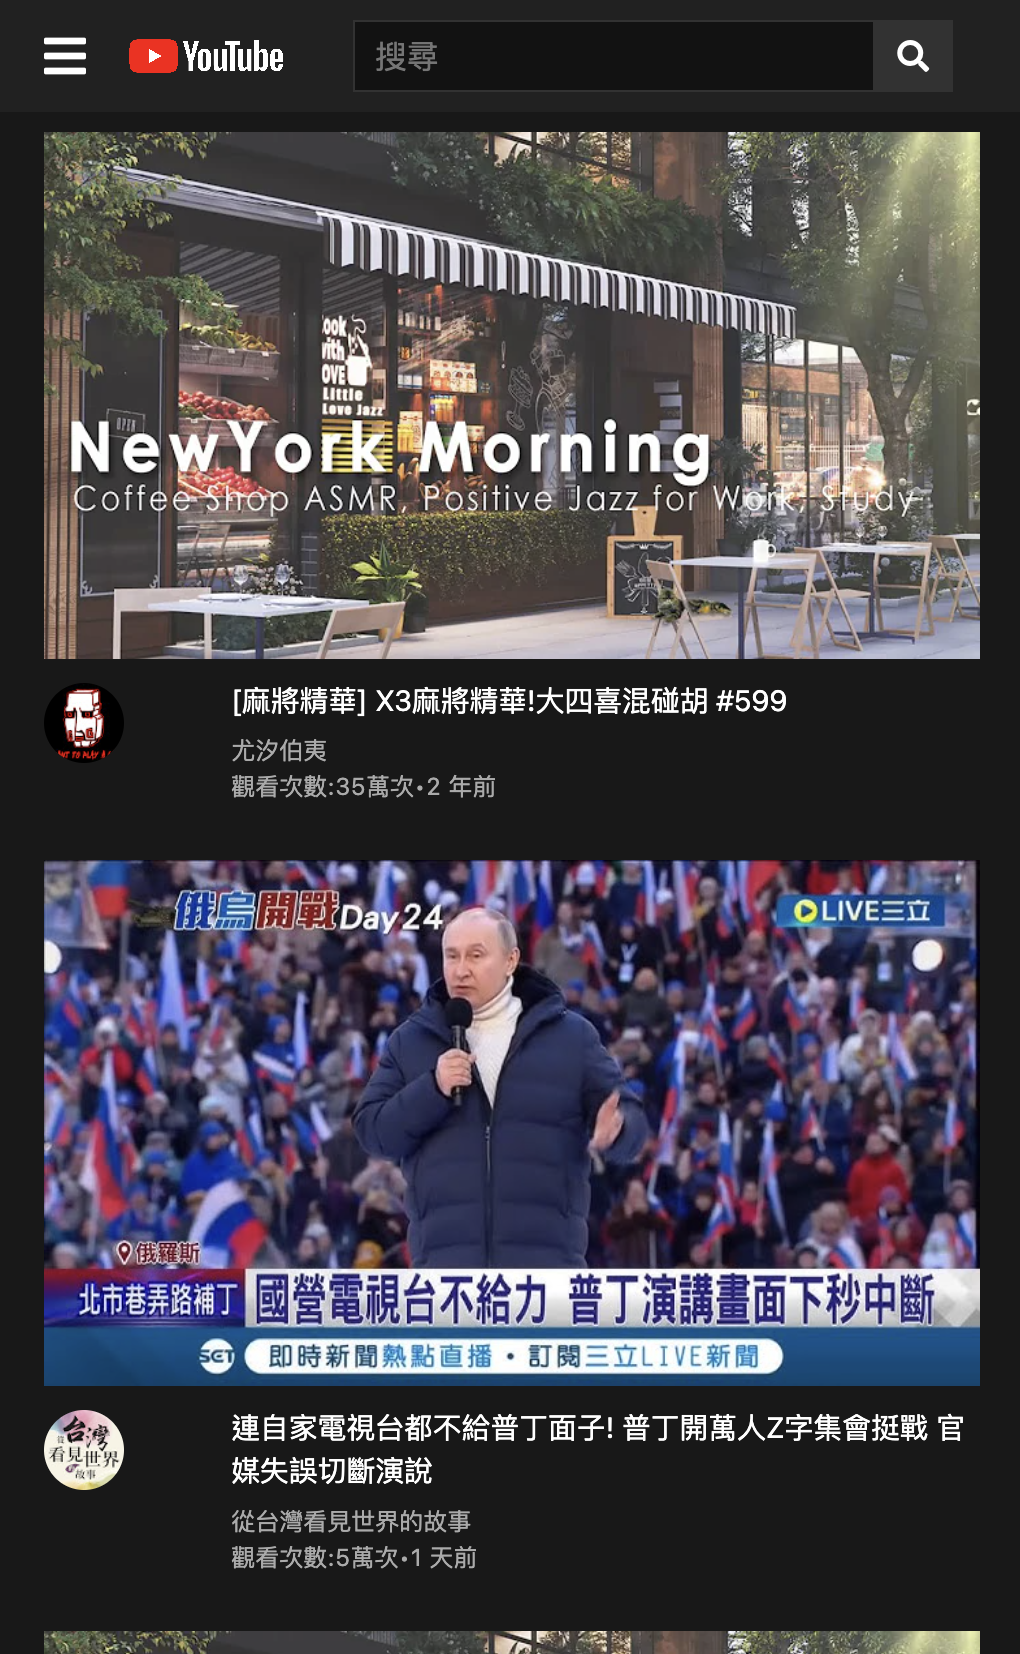
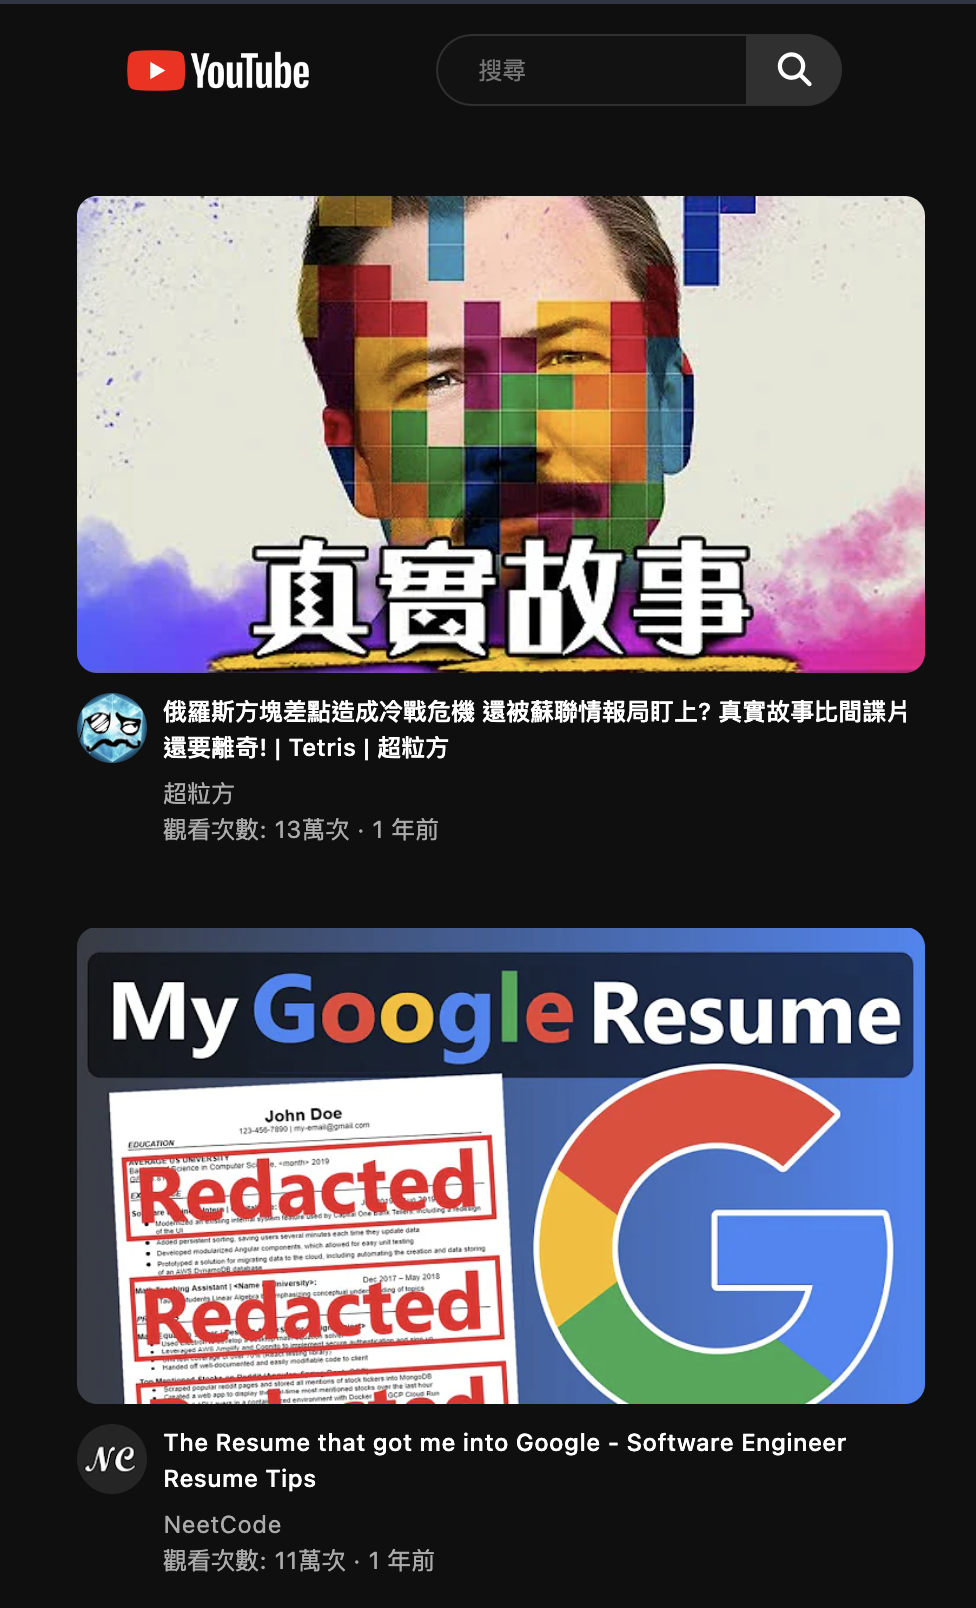
5/15

diff --git a/RWD/YT-practice/index.html b/RWD/YT-practice/index.html
@@ -62,27 +62,255 @@
                     <div class="row">
                         <div class="col col-sm-6 col-lg-4">
                             <div class="yt-vd">
-                                <div class="vd-img"></div>
+                                <div 
+                                    class="vd-img"
+                                    style="background-image: url('https://i.ytimg.com/vi/O-e7ve3Uidg/hqdefault.jpg?sqp=-oaymwEcCOADEI4CSFXyq4qpAw4IARUAAIhCGAFwAcABBg==&rs=AOn4CLC7CHBN2wuZvv0zhHIrSM2j0qNPgQ');"
+                                ></div>
                                 <div class="info">
                                     <div class="desc">
                                         <div class="avatar">
                                             <img src="https://yt3.ggpht.com/ytc/AGIKgqPlQF3RK-0DbvuttXxPbKKL6XR5QFXDcCMKseuIGg=s68-c-k-c0x00ffffff-no-rj" alt="avatar">
                                         </div>
-                                        <div class="desc-txt">
-                                            俄羅斯方塊差點造成冷戰危機 還被蘇聯情報局盯上? 真實故事比間諜片還要離奇!  | Tetris | 超粒方
+                                        <div class="txt-group">
+                                            <div class="desc-txt">
+                                                俄羅斯方塊差點造成冷戰危機 還被蘇聯情報局盯上? 真實故事比間諜片還要離奇!  | Tetris | 超粒方
+                                            </div>
+                                            <div class="bot-desc">
+                                                <div class="chan">
+                                                    超粒方
+                                                </div>
+                                                <div class="watch">
+                                                    觀看次數: 13萬次 · 1 年前
+                                                </div>
+                                            </div>
                                         </div>
                                     </div>
-                                    <div class="bot-desc">
-                                        <div class="chan"></div>
-                                        <div class="watch"></div>
+                                </div>
+                            </div>                      
+                        </div>
+                        <div class="col col-sm-6 col-lg-4">
+                            <div class="yt-vd">
+                                <div 
+                                    class="vd-img"
+                                    style="background-image: url('https://i.ytimg.com/vi/bwgjvzMSlMQ/hq720.jpg?sqp=-oaymwEcCNAFEJQDSFXyq4qpAw4IARUAAIhCGAFwAcABBg==&rs=AOn4CLDMB33ZOLlnb-QgIv0lu8IGghTR6g');"
+                                ></div>
+                                <div class="info">
+                                    <div class="desc">
+                                        <div class="avatar">
+                                            <img src="https://yt3.ggpht.com/FqiGBOsNpeWbNw20ULboW0jy88JdpqFO9a-YRJ0C2oc4lZ8uoHYJ38PWSkrjdC_zQgNW9pGU=s68-c-k-c0x00ffffff-no-rj" alt="avatar">
+                                        </div>
+                                        <div class="txt-group">
+                                            <div class="desc-txt">
+                                                The Resume that got me into Google - Software Engineer Resume Tips</div>
+                                            <div class="bot-desc">
+                                                <div class="chan">
+                                                    NeetCode
+                                                </div>
+                                                <div class="watch">
+                                                    觀看次數: 11萬次 · 1 年前
+                                                </div>
+                                            </div>
+                                        </div>
                                     </div>
                                 </div>
-                            </div>
-                           
+                            </div> 
                         </div>
-                        <div class="col col-sm-6 col-lg-4"></div>
-                        <div class="col col-sm-6 col-lg-4"></div>
-                        <div class="col col-sm-6 col-lg-4"></div>
+                        <div class="col col-sm-6 col-lg-4">
+                            <div class="yt-vd">
+                                <div 
+                                    class="vd-img"
+                                    style="background-image: url('https://i.ytimg.com/vi/uTuuz__8gUM/hqdefault.jpg?sqp=-oaymwEcCOADEI4CSFXyq4qpAw4IARUAAIhCGAFwAcABBg==&rs=AOn4CLAJqKJUqthPzKr9QPFIRCQC6cEgZw');"
+                                ></div>
+                                <div class="info">
+                                    <div class="desc">
+                                        <div class="avatar">
+                                            <img src="https://yt3.ggpht.com/aMEvgk3HpePuKHEb72ZLb0RHnq4oZc9JoLZP2SiIoC8VJmGGSvChE7GtNRY3twnlhQ1nMMsX_g=s68-c-k-c0x00ffffff-no-rj" alt="avatar">
+                                        </div>
+                                        <div class="txt-group">
+                                            <div class="desc-txt">
+                                                [Playlist] 오롯이 혼자인 방 안에서, 그리고 재즈 | Work & Study Jazz | Relaxing Background Music
+                                            </div>
+                                            <div class="bot-desc">
+                                                <div class="chan">
+                                                    WRG 우리가 듣고 싶어서 연주한 playlist
+                                                </div>
+                                                <div class="watch">
+                                                    觀看次數: 16萬次·1 個月前
+                                                </div>
+                                            </div>
+                                        </div>
+                                    </div>
+                                </div>
+                            </div> 
+                        </div>
+                        <div class="col col-sm-6 col-lg-4">
+                            <div class="yt-vd">
+                                <div
+                                    class="vd-img"
+                                    style="background-image: url('https://i.ytimg.com/vi/PXMJ6FS7llk/hq720.jpg?sqp=-oaymwEcCNAFEJQDSFXyq4qpAw4IARUAAIhCGAFwAcABBg==&rs=AOn4CLA_dVFi-zMvuDL-JY3Sh1EyJpmdCw');"
+                                ></div>
+                                <div class="info">
+                                    <div class="desc">
+                                        <div class="avatar">
+                                            <img src="https://yt3.ggpht.com/ytc/AGIKgqMl9TL4OpwS8Zc5jHrNnfO01f_Wbovye9mQzfp36Q=s68-c-k-c0x00ffffff-no-rj" alt="avatar">
+                                        </div>
+                                        <div class="txt-group">
+                                            <div class="desc-txt">
+                                                Automate with Python - Full Course for Beginners
+                                            </div>
+                                            <div class="bot-desc">
+                                                <div class="chan">
+                                                    freeCodeCamp.org
+                                                </div>
+                                                <div class="watch">
+                                                    觀看次數: 87萬次·10 個月前
+                                                </div>
+                                            </div>
+                                        </div>
+                                    </div>
+                                </div>
+                            </div> 
+                        </div>
+                        <div class="col col-sm-6 col-lg-4">
+                            <div class="yt-vd">
+                                <div 
+                                    class="vd-img"
+                                    style="background-image: url('https://i.ytimg.com/vi/uTuuz__8gUM/hqdefault.jpg?sqp=-oaymwEcCOADEI4CSFXyq4qpAw4IARUAAIhCGAFwAcABBg==&rs=AOn4CLAJqKJUqthPzKr9QPFIRCQC6cEgZw');"
+                                ></div>
+                                <div class="info">
+                                    <div class="desc">
+                                        <div class="avatar">
+                                            <img src="https://yt3.ggpht.com/aMEvgk3HpePuKHEb72ZLb0RHnq4oZc9JoLZP2SiIoC8VJmGGSvChE7GtNRY3twnlhQ1nMMsX_g=s68-c-k-c0x00ffffff-no-rj" alt="avatar">
+                                        </div>
+                                        <div class="txt-group">
+                                            <div class="desc-txt">
+                                                [Playlist] 오롯이 혼자인 방 안에서, 그리고 재즈 | Work & Study Jazz | Relaxing Background Music
+                                            </div>
+                                            <div class="bot-desc">
+                                                <div class="chan">
+                                                    WRG 우리가 듣고 싶어서 연주한 playlist
+                                                </div>
+                                                <div class="watch">
+                                                    觀看次數: 16萬次·1 個月前
+                                                </div>
+                                            </div>
+                                        </div>
+                                    </div>
+                                </div>
+                            </div> 
+                        </div>
+                        <div class="col col-sm-6 col-lg-4">
+                            <div class="yt-vd">
+                                <div 
+                                    class="vd-img"
+                                    style="background-image: url('https://i.ytimg.com/vi/O-e7ve3Uidg/hqdefault.jpg?sqp=-oaymwEcCOADEI4CSFXyq4qpAw4IARUAAIhCGAFwAcABBg==&rs=AOn4CLC7CHBN2wuZvv0zhHIrSM2j0qNPgQ');"
+                                ></div>
+                                <div class="info">
+                                    <div class="desc">
+                                        <div class="avatar">
+                                            <img src="https://yt3.ggpht.com/ytc/AGIKgqPlQF3RK-0DbvuttXxPbKKL6XR5QFXDcCMKseuIGg=s68-c-k-c0x00ffffff-no-rj" alt="avatar">
+                                        </div>
+                                        <div class="txt-group">
+                                            <div class="desc-txt">
+                                                俄羅斯方塊差點造成冷戰危機 還被蘇聯情報局盯上? 真實故事比間諜片還要離奇!  | Tetris | 超粒方
+                                            </div>
+                                            <div class="bot-desc">
+                                                <div class="chan">
+                                                    超粒方
+                                                </div>
+                                                <div class="watch">
+                                                    觀看次數: 13萬次 · 1 年前
+                                                </div>
+                                            </div>
+                                        </div>
+                                    </div>
+                                </div>
+                            </div>                      
+                        </div>
+                        <div class="col col-sm-6 col-lg-4">
+                            <div class="yt-vd">
+                                <div 
+                                    class="vd-img"
+                                    style="background-image: url('https://i.ytimg.com/vi/uTuuz__8gUM/hqdefault.jpg?sqp=-oaymwEcCOADEI4CSFXyq4qpAw4IARUAAIhCGAFwAcABBg==&rs=AOn4CLAJqKJUqthPzKr9QPFIRCQC6cEgZw');"
+                                ></div>
+                                <div class="info">
+                                    <div class="desc">
+                                        <div class="avatar">
+                                            <img src="https://yt3.ggpht.com/aMEvgk3HpePuKHEb72ZLb0RHnq4oZc9JoLZP2SiIoC8VJmGGSvChE7GtNRY3twnlhQ1nMMsX_g=s68-c-k-c0x00ffffff-no-rj" alt="avatar">
+                                        </div>
+                                        <div class="txt-group">
+                                            <div class="desc-txt">
+                                                [Playlist] 오롯이 혼자인 방 안에서, 그리고 재즈 | Work & Study Jazz | Relaxing Background Music
+                                            </div>
+                                            <div class="bot-desc">
+                                                <div class="chan">
+                                                    WRG 우리가 듣고 싶어서 연주한 playlist
+                                                </div>
+                                                <div class="watch">
+                                                    觀看次數: 16萬次·1 個月前
+                                                </div>
+                                            </div>
+                                        </div>
+                                    </div>
+                                </div>
+                            </div> 
+                        </div>
+                        <div class="col col-sm-6 col-lg-4">
+                            <div class="yt-vd">
+                                <div
+                                    class="vd-img"
+                                    style="background-image: url('https://i.ytimg.com/vi/PXMJ6FS7llk/hq720.jpg?sqp=-oaymwEcCNAFEJQDSFXyq4qpAw4IARUAAIhCGAFwAcABBg==&rs=AOn4CLA_dVFi-zMvuDL-JY3Sh1EyJpmdCw');"
+                                ></div>
+                                <div class="info">
+                                    <div class="desc">
+                                        <div class="avatar">
+                                            <img src="https://yt3.ggpht.com/ytc/AGIKgqMl9TL4OpwS8Zc5jHrNnfO01f_Wbovye9mQzfp36Q=s68-c-k-c0x00ffffff-no-rj" alt="avatar">
+                                        </div>
+                                        <div class="txt-group">
+                                            <div class="desc-txt">
+                                                Automate with Python - Full Course for Beginners
+                                            </div>
+                                            <div class="bot-desc">
+                                                <div class="chan">
+                                                    freeCodeCamp.org
+                                                </div>
+                                                <div class="watch">
+                                                    觀看次數: 87萬次·10 個月前
+                                                </div>
+                                            </div>
+                                        </div>
+                                    </div>
+                                </div>
+                            </div> 
+                        </div>
+                        <div class="col col-sm-6 col-lg-4">
+                            <div class="yt-vd">
+                                <div 
+                                    class="vd-img"
+                                    style="background-image: url('https://i.ytimg.com/vi/uTuuz__8gUM/hqdefault.jpg?sqp=-oaymwEcCOADEI4CSFXyq4qpAw4IARUAAIhCGAFwAcABBg==&rs=AOn4CLAJqKJUqthPzKr9QPFIRCQC6cEgZw');"
+                                ></div>
+                                <div class="info">
+                                    <div class="desc">
+                                        <div class="avatar">
+                                            <img src="https://yt3.ggpht.com/aMEvgk3HpePuKHEb72ZLb0RHnq4oZc9JoLZP2SiIoC8VJmGGSvChE7GtNRY3twnlhQ1nMMsX_g=s68-c-k-c0x00ffffff-no-rj" alt="avatar">
+                                        </div>
+                                        <div class="txt-group">
+                                            <div class="desc-txt">
+                                                [Playlist] 오롯이 혼자인 방 안에서, 그리고 재즈 | Work & Study Jazz | Relaxing Background Music
+                                            </div>
+                                            <div class="bot-desc">
+                                                <div class="chan">
+                                                    WRG 우리가 듣고 싶어서 연주한 playlist
+                                                </div>
+                                                <div class="watch">
+                                                    觀看次數: 16萬次·1 個月前
+                                                </div>
+                                            </div>
+                                        </div>
+                                    </div>
+                                </div>
+                            </div> 
+                        </div>
                     </div>
                 </div>
             </div>

diff --git a/RWD/YT-practice/style.css b/RWD/YT-practice/style.css
@@ -15,6 +15,7 @@ body
     display: flex;
     flex-direction: column;
     background-color: #0f0f0f;
+    overflow: hidden;
 }
 
 .top-bar
@@ -108,6 +109,7 @@ body
 .main
 {
     width: 100%;
+    height: 92%;
     flex: 1;
     display: flex;
 }
@@ -150,6 +152,7 @@ body
     height: 100%;
     flex: 1;
     overflow-y: scroll;
+    background-color: #0f0f0f;
 }
 .content > .container-fluid
 {
@@ -173,7 +176,14 @@ body
     justify-content: center;
 
     width: 90%;
-    max-width: 350px;
+
+    /* min-width, max-width 
+        => can be used to do RWD
+        => to avoid continuing shrink or largen
+    */
+    /* max-width: 350px;  */
+
+    padding: 20px 0;
 }
 .info
 {
@@ -187,22 +197,24 @@ body
 
 /*
 比例照片方法:
-padding-bottom (background or image都可以)
+1. padding-bottom (background or image都可以)
+2. aspect-ratio => mobile sometimes may occur error
 */
 .vd-img
 {
-    background-image: url('https://i.ytimg.com/vi/O-e7ve3Uidg/hqdefault.jpg?sqp=-oaymwEcCOADEI4CSFXyq4qpAw4IARUAAIhCGAFwAcABBg==&rs=AOn4CLC7CHBN2wuZvv0zhHIrSM2j0qNPgQ');
+    /* background-image: url(''); */ 
     background-repeat: no-repeat;
     background-size: contain;
     background-position: center;
     
     width: 100%;
     min-width: 240px; 
+    height: 0;
+
     /*padding 是根據 寬度決定*/
     padding-bottom: 56.25%; /*16:9 = 100 : 56.25 */
 
     border-radius: 10px;
-
 }
 .desc
 {
@@ -212,7 +224,7 @@ padding-bottom (background or image都可以)
 }
 .avatar
 {
-    width: 70px;
+    max-width: 35px;
     height: 100%;
 }
 .avatar > img
@@ -220,26 +232,35 @@ padding-bottom (background or image都可以)
     border-radius: 50%;
     width: 100%;
 }
+.txt-group
+{
+    display: flex;
+    flex-direction: column;
+    padding-left: 8px;
+}
 .desc-txt
 {
     color: #fff;
-    font-size: 1.7vmin;
+    font-size: 1.8vmin;
     font-weight: 500;
-    height: 100%;
+    max-height: 50%;
 
     /* two line ellipsis */
     display: -webkit-box;
     -webkit-line-clamp: 2;
     -webkit-box-orient: vertical;
+
+    /* white-space: nowrap; */
     overflow: hidden;
     text-overflow: ellipsis;
-
-    padding-left: 8px;
 }
 .bot-desc
 {
-    height: 50%;
     width: 100%;
+    color: #aaaaaa;
+    font-size: 1.6vmin;
+    max-height: 50%;
+    margin-top: 5px;
 }
 
 @media(max-width: 992px)
@@ -249,6 +270,14 @@ padding-bottom (background or image都可以)
         display: none;
     }
     .menu
+    {
+        display: none;
+    }
+}
+
+@media(max-width: 576px)
+{
+    .func-group
     {
         display: none;
     }
